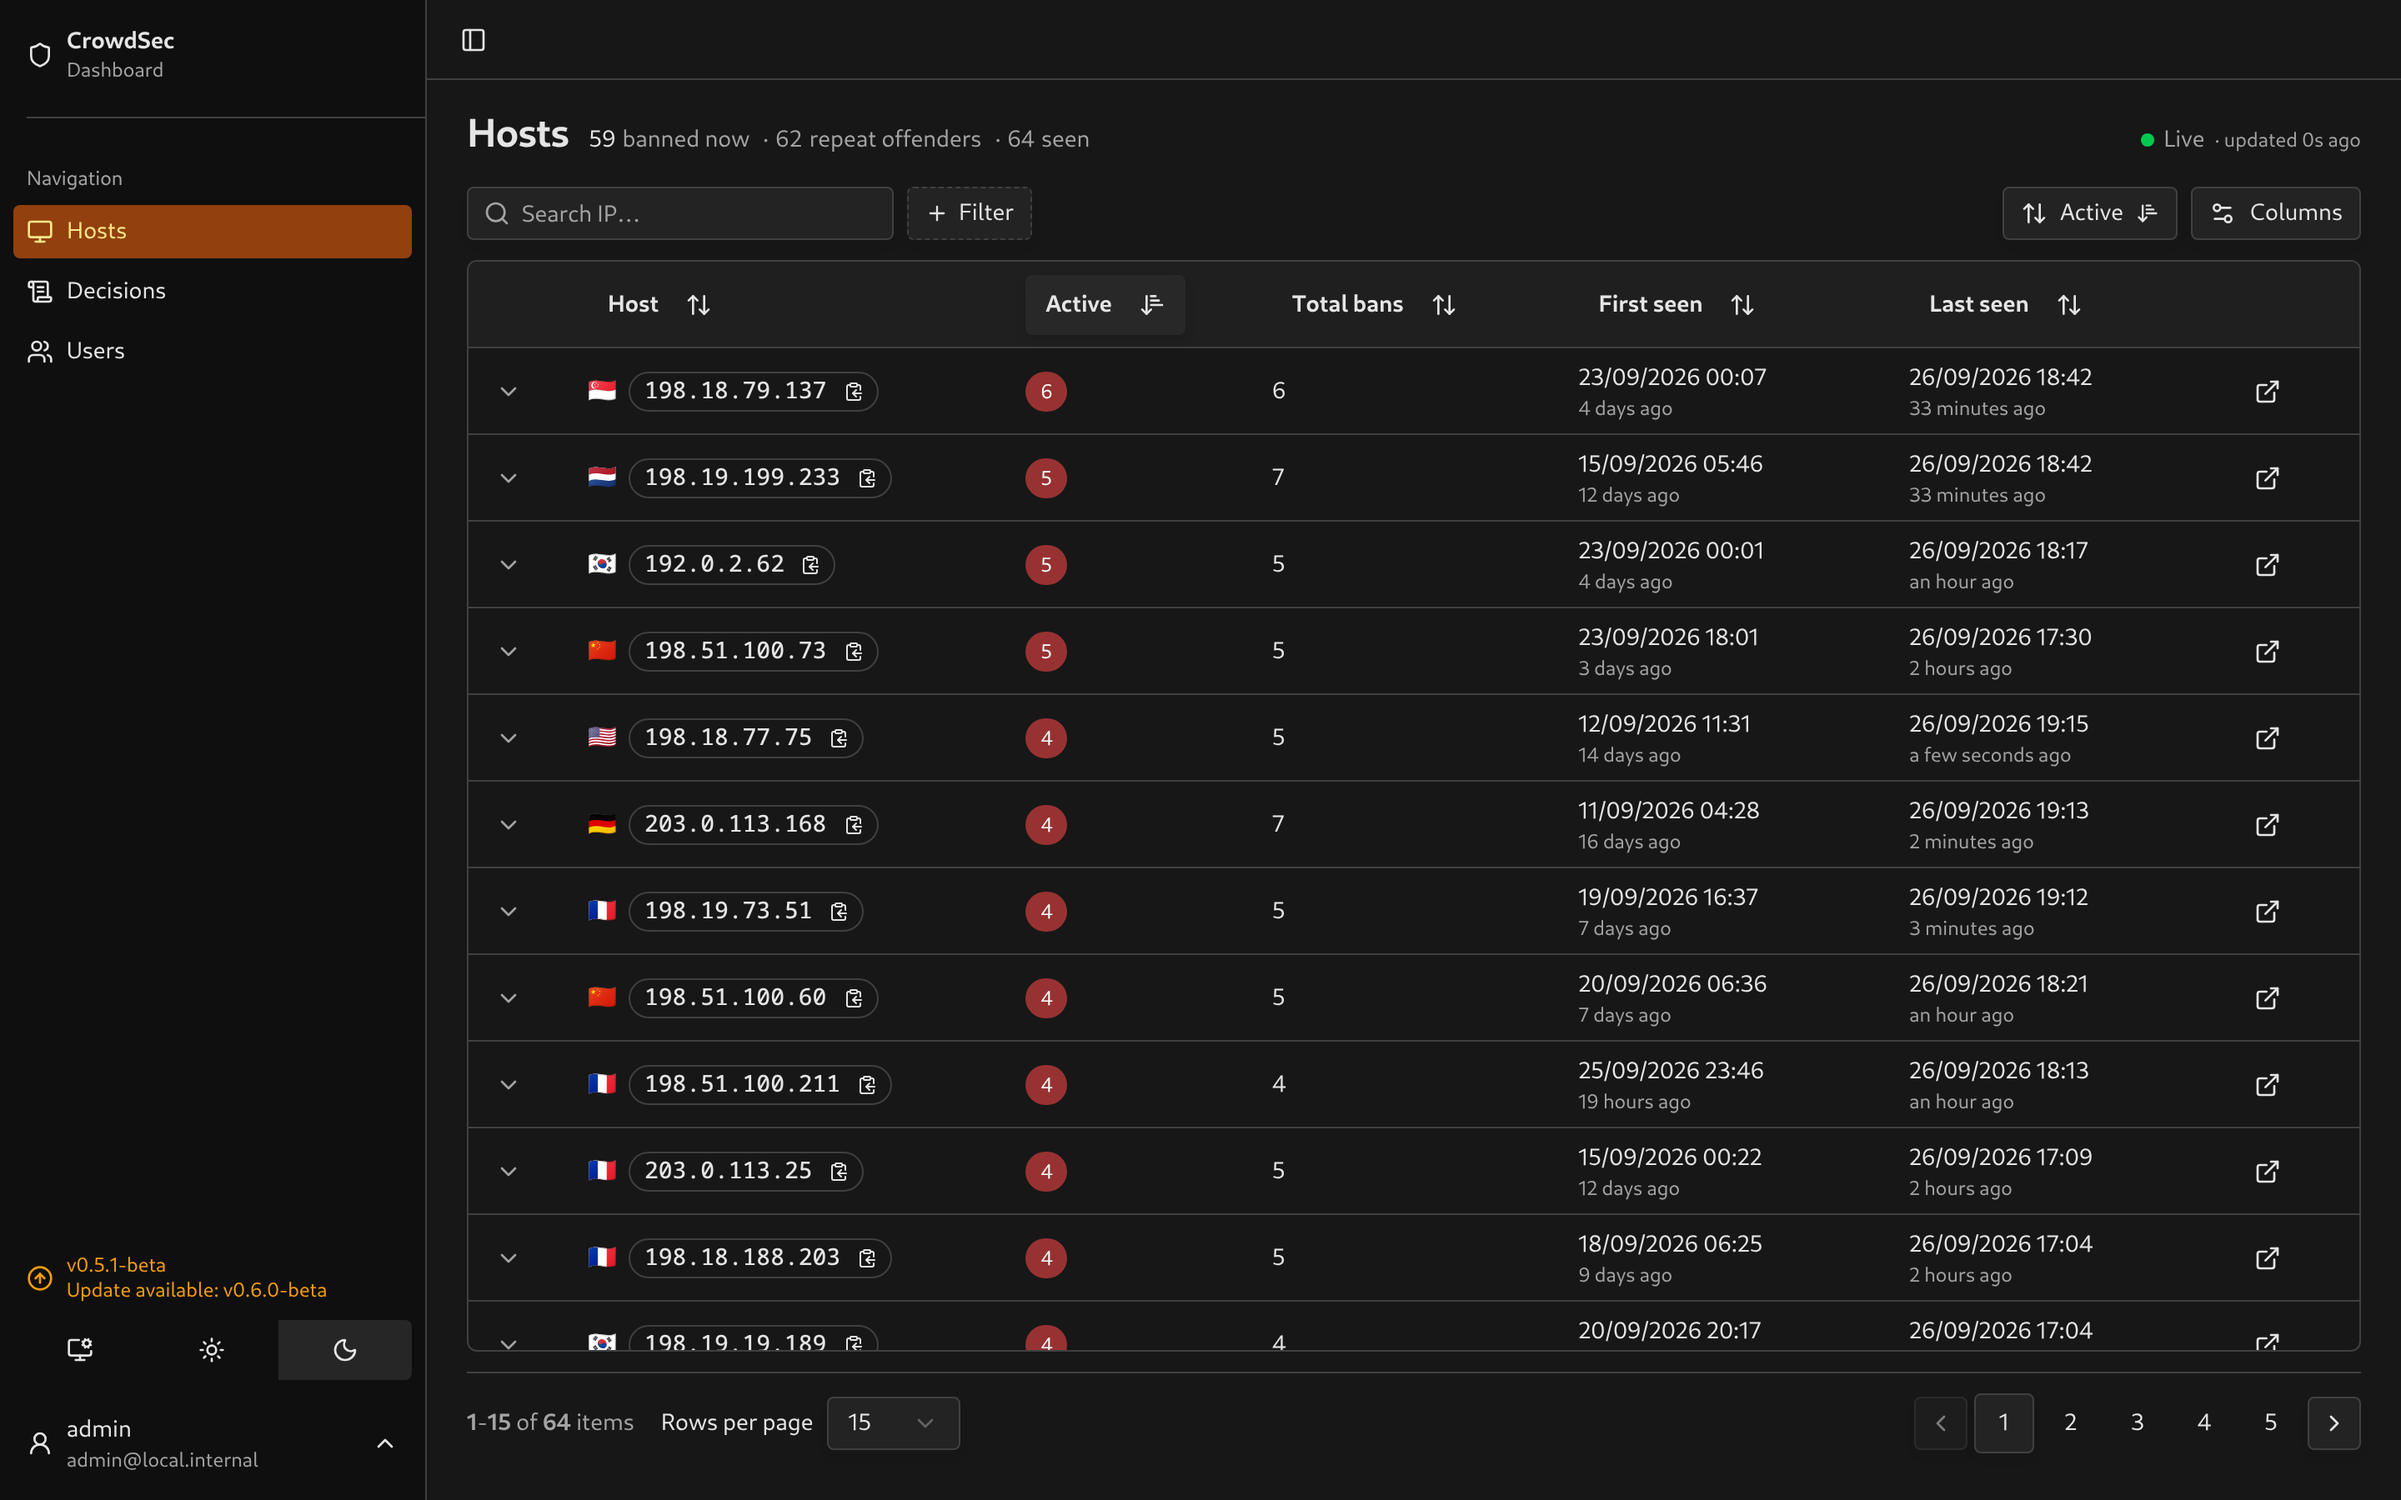
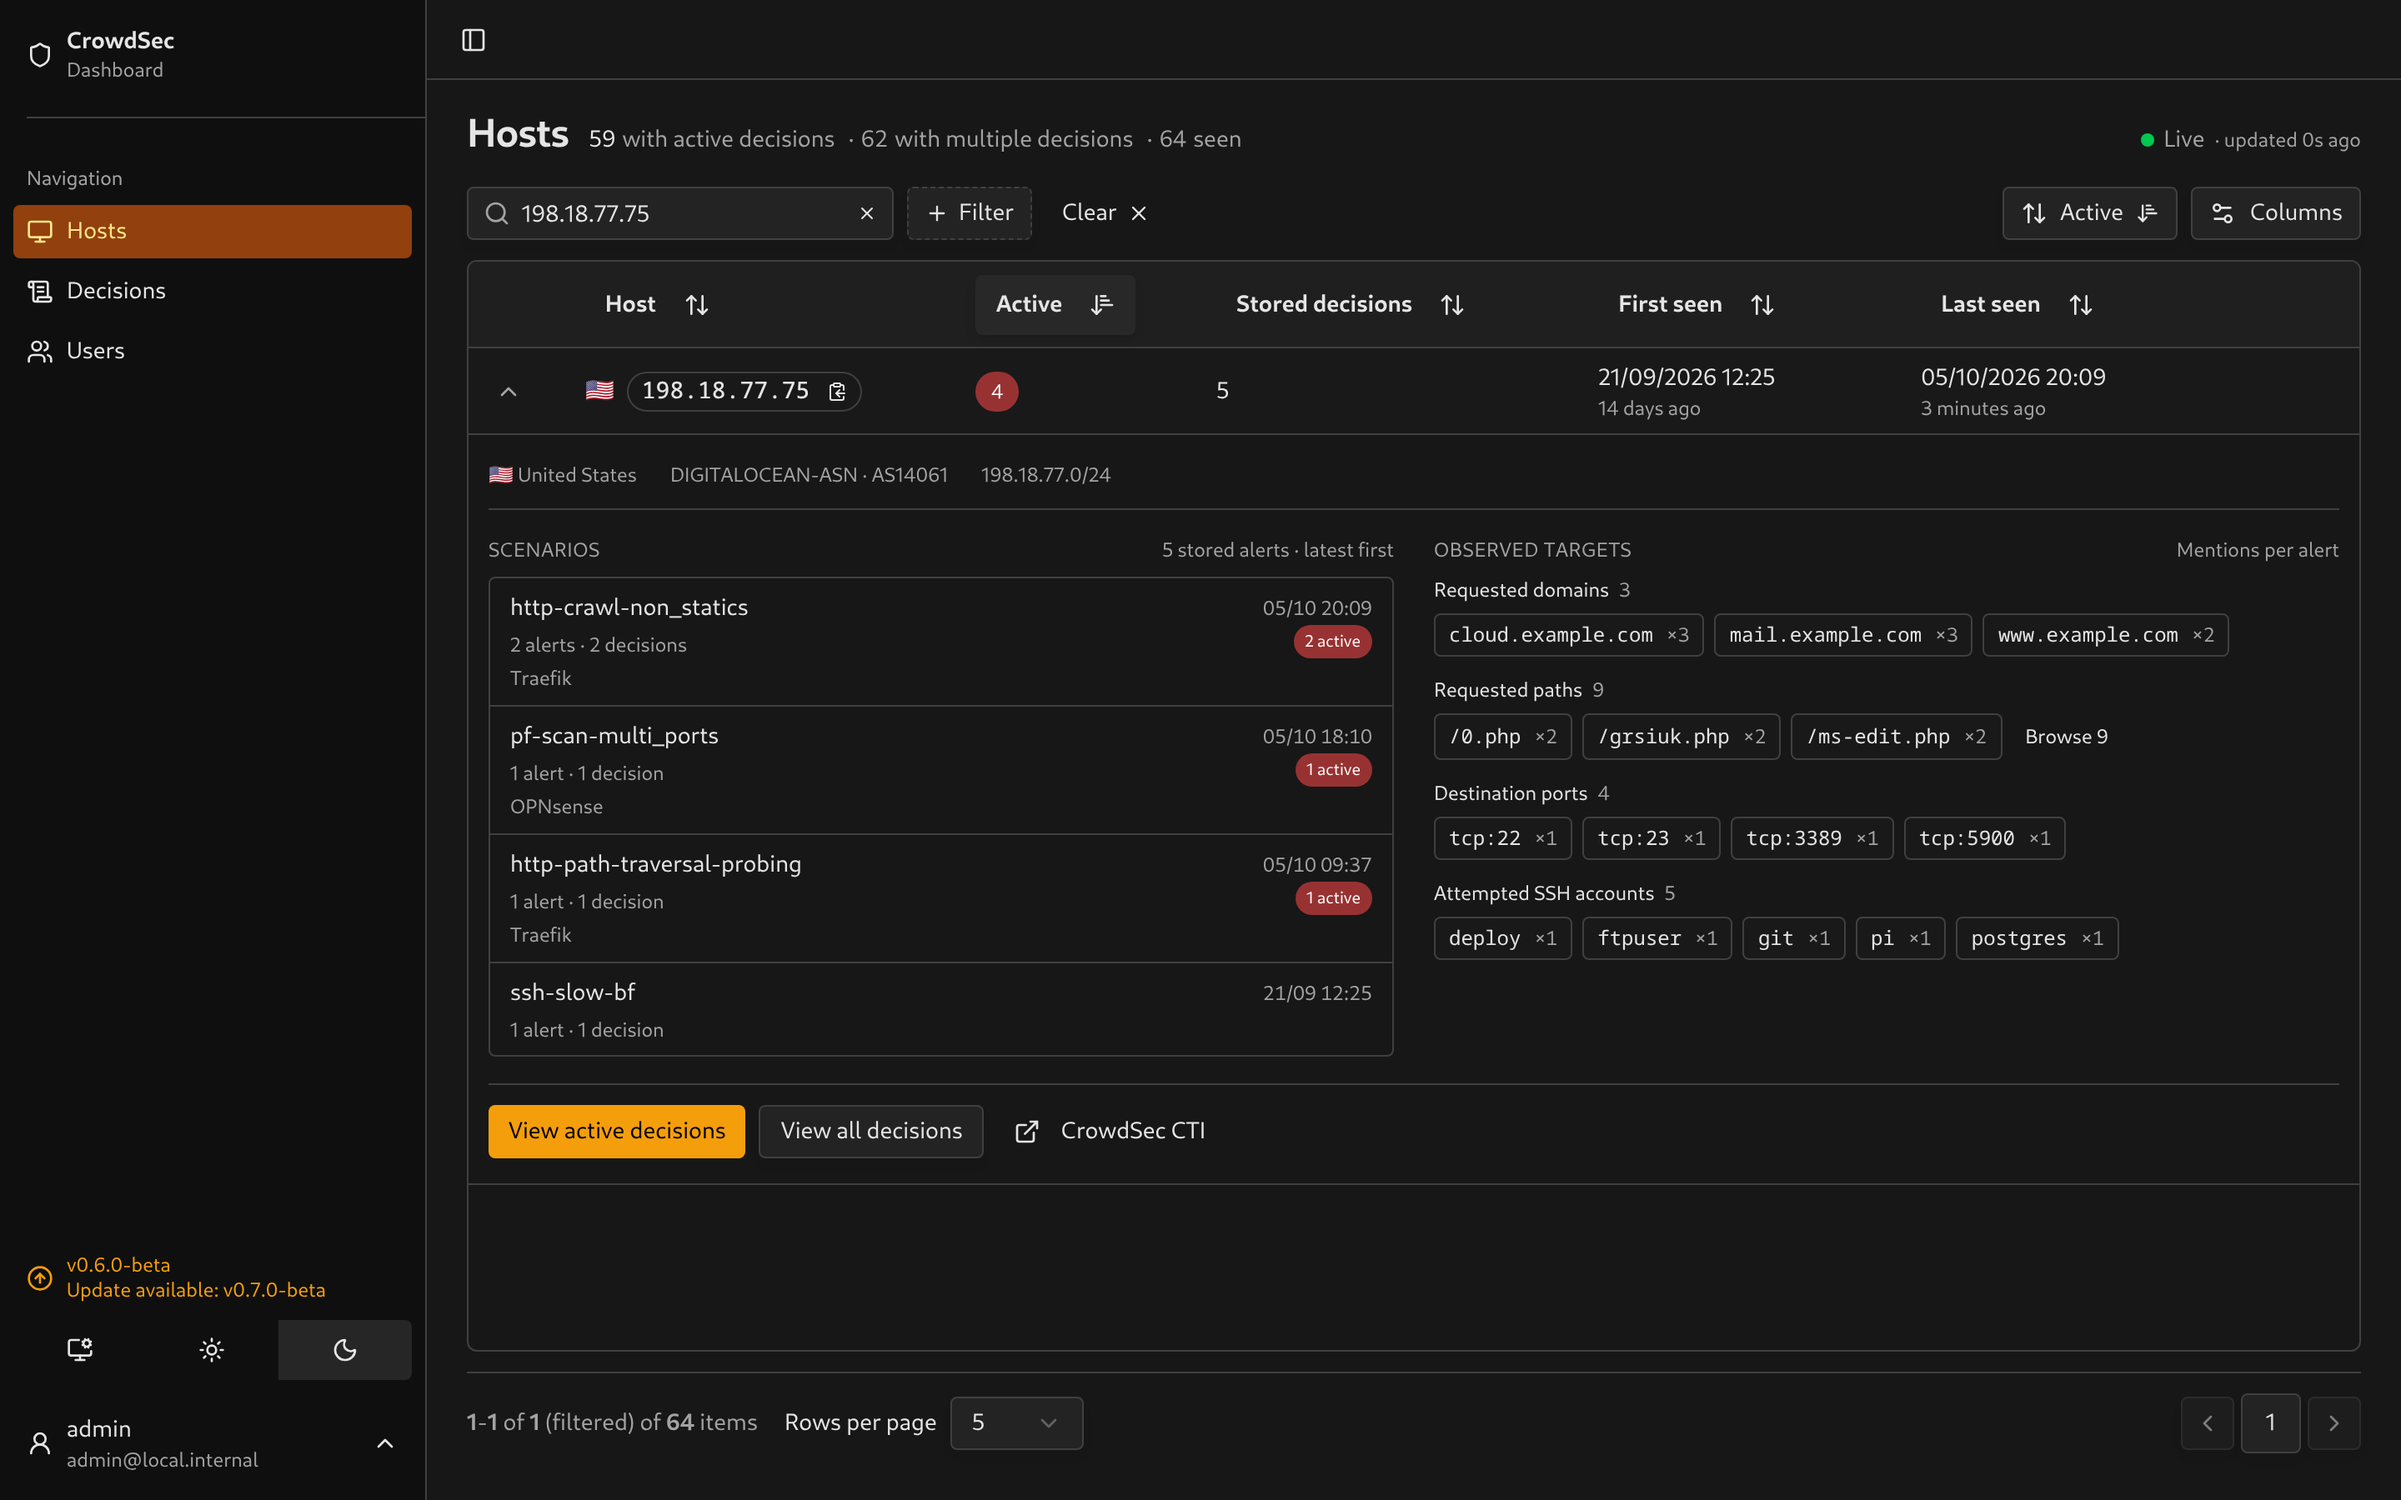
docs: refresh host and mailcow screenshots

diff --git a/README.md b/README.md
@@ -39,7 +39,7 @@ This dashboard replaces all of that with a filterable table and a delete button.
     <td align="center"><img src="docs/images/crowdsec-dashboard-desktop-decisions-appsec.png" width="420" alt="Decisions - expanded row showing the WAF rules that fired"/><br/><sub>Decisions - expanded row showing the WAF rules that fired</sub></td>
   </tr>
   <tr>
-    <td align="center"><img src="docs/images/crowdsec-dashboard-desktop-hosts.png" width="420" alt="Hosts - sortable, filterable IP list with active ban counts"/><br/><sub>Hosts - sortable, filterable IP list with active ban counts</sub></td>
+    <td align="center"><img src="docs/images/crowdsec-dashboard-desktop-hosts.png" width="420" alt="Hosts - expanded history with scenarios and observed targets"/><br/><sub>Hosts - expanded history with scenarios and observed targets</sub></td>
     <td align="center"><img src="docs/images/crowdsec-dashboard-desktop-users.png" width="420" alt="Users - local accounts and SSO logins side by side"/><br/><sub>Users - local accounts and SSO logins side by side</sub></td>
   </tr>
 </table>
@@ -62,7 +62,7 @@ This dashboard replaces all of that with a filterable table and a delete button.
   <tr>
     <td align="center"><img src="docs/images/crowdsec-dashboard-mobile-users-create.png" width="230" alt="Users - the create form opens in a drawer instead of squashing the table"/><br/><sub>Users - the create form opens in a drawer instead of squashing the table</sub></td>
     <td align="center"><img src="docs/images/crowdsec-dashboard-mobile-hosts-refresh.png" width="230" alt="Hosts - pull the list down to resync with CrowdSec"/><br/><sub>Hosts - pull the list down to resync with CrowdSec</sub></td>
-    <td align="center"><img src="docs/images/crowdsec-dashboard-mobile-hosts.png" width="230" alt="Hosts - sortable, filterable IP list with active ban counts"/><br/><sub>Hosts - sortable, filterable IP list with active ban counts</sub></td>
+    <td align="center"><img src="docs/images/crowdsec-dashboard-mobile-hosts.png" width="230" alt="Hosts - activity drawer with scenarios and observed targets"/><br/><sub>Hosts - activity drawer with scenarios and observed targets</sub></td>
   </tr>
   <tr>
     <td align="center"><img src="docs/images/crowdsec-dashboard-mobile-users.png" width="230" alt="Users - local accounts and SSO logins side by side"/><br/><sub>Users - local accounts and SSO logins side by side</sub></td>
